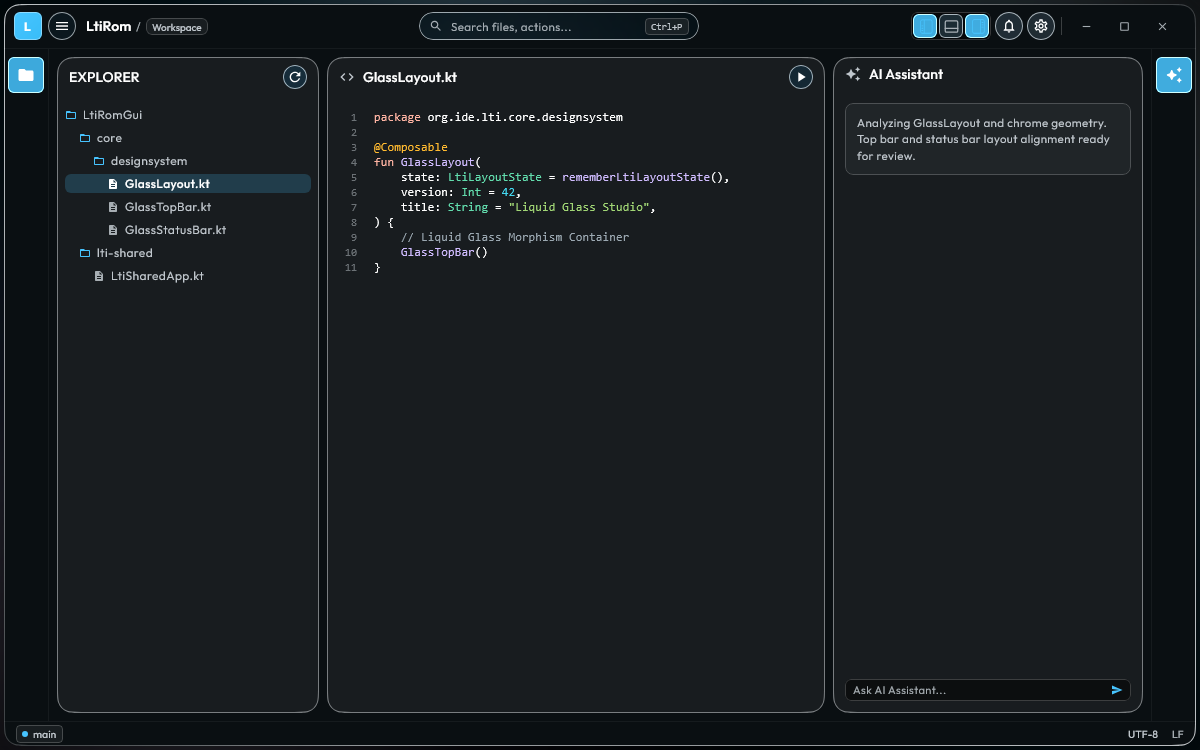
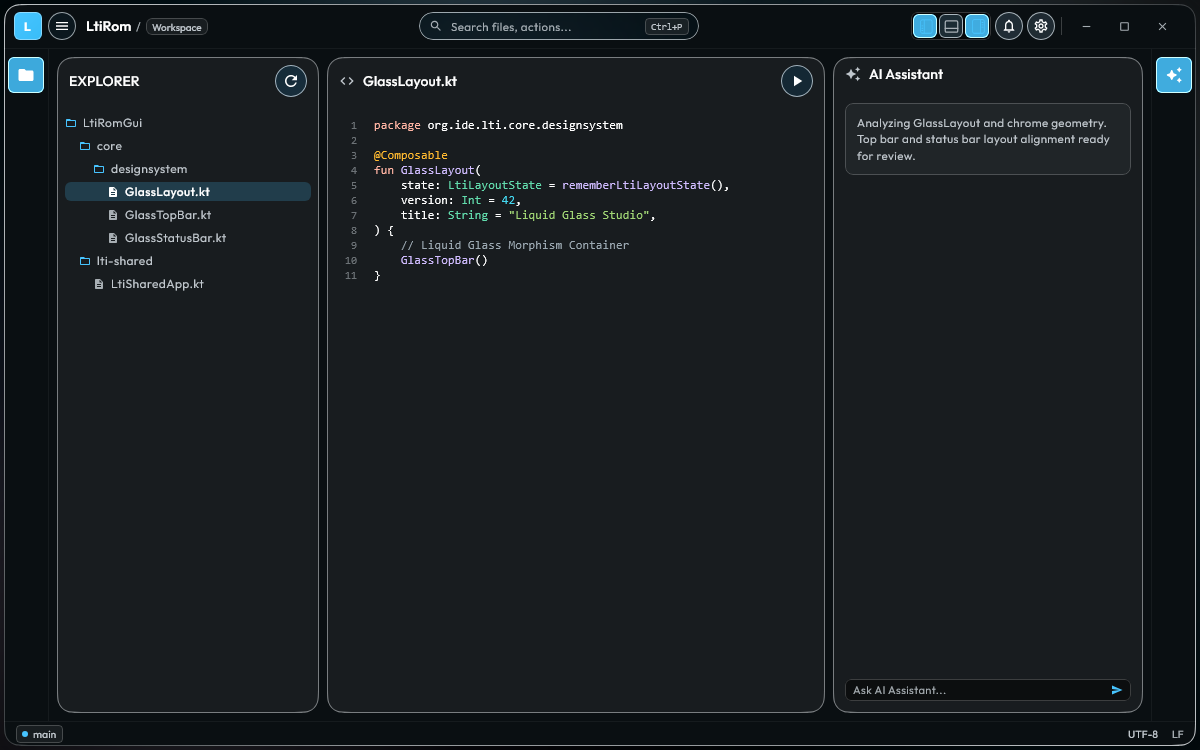
Add visible keyboard focus ring and enlarge panel header action touch target
GlassButton now tracks isFocused via onFocusChanged and renders a
StrokeWidth.Focused ring in glassColors.focusRing, replacing the hairline
border on focus (fixes WCAG 2.2 Focus Visible gap - the token existed but
was never wired to a real component). GlassPanelHeaderAction grows from the
24dp PanelHeaderAction token to a new 32dp PanelHeaderActionTouchTarget,
with a matching 18dp icon glyph to stay proportionate (same pattern as the
earlier SidePanelRailButtonSize fix). GlassMessageBubble's inline copy
button intentionally stays on the smaller 24dp token - different context.

Implemented via agy delegate, independently reviewed: real diff against
brief scope, forced compile/detekt/guardrails + test suite, and two
independent fresh-daemon screenshot regenerations confirmed byte-identical
before committing.

Claude-Session: https://claude.ai/code/session_0159mNcRLJay2RPBEyxhqFt6

diff --git a/core/designsystem/src/desktopTest/kotlin/org/ide/lti/core/designsystem/screenshot/GlassFocusScreenshotTest.kt b/core/designsystem/src/desktopTest/kotlin/org/ide/lti/core/designsystem/screenshot/GlassFocusScreenshotTest.kt
@@ -1,0 +1,114 @@
+/*
+ * Copyright 2025 Mifos Initiative
+ *
+ * This Source Code Form is subject to the terms of the Mozilla Public
+ * License, v. 2.0. If a copy of the MPL was not distributed with this
+ * file, You can obtain one at https://mozilla.org/MPL/2.0/.
+ *
+ * See https://github.com/openMF/kmp-project-template/blob/main/LICENSE
+ */
+package org.ide.lti.core.designsystem.screenshot
+
+import androidx.compose.foundation.background
+import androidx.compose.foundation.layout.Arrangement
+import androidx.compose.foundation.layout.Box
+import androidx.compose.foundation.layout.Column
+import androidx.compose.foundation.layout.Row
+import androidx.compose.foundation.layout.fillMaxSize
+import androidx.compose.foundation.layout.padding
+import androidx.compose.foundation.layout.size
+import androidx.compose.material3.Icon
+import androidx.compose.material3.Text
+import androidx.compose.runtime.LaunchedEffect
+import androidx.compose.runtime.remember
+import androidx.compose.ui.Alignment
+import androidx.compose.ui.Modifier
+import androidx.compose.ui.focus.FocusRequester
+import androidx.compose.ui.focus.focusRequester
+import androidx.compose.ui.test.ExperimentalTestApi
+import androidx.compose.ui.test.captureToImage
+import androidx.compose.ui.test.onRoot
+import androidx.compose.ui.test.runDesktopComposeUiTest
+import org.ide.lti.core.designsystem.component.GlassButton
+import org.ide.lti.core.designsystem.component.GlassButtonVariant
+import org.ide.lti.core.designsystem.component.GlassIconButton
+import org.ide.lti.core.designsystem.component.GlassPrimaryButton
+import org.ide.lti.core.designsystem.component.GlassTextButton
+import org.ide.lti.core.designsystem.icon.AppIcons
+import org.ide.lti.core.designsystem.theme.GlassTheme
+import org.ide.lti.core.designsystem.theme.IconSize
+import org.ide.lti.core.designsystem.theme.LtiTheme
+import org.ide.lti.core.designsystem.theme.Spacing
+import org.junit.Test
+
+/**
+ * Visual screenshot regression tests for visible keyboard focus ring indicator.
+ */
+class GlassFocusScreenshotTest {
+
+    @OptIn(ExperimentalTestApi::class)
+    @Test
+    fun testGlassButtonFocused() = runDesktopComposeUiTest(width = 480, height = 220) {
+        setContent {
+            val focusRequester = remember { FocusRequester() }
+            LaunchedEffect(Unit) {
+                focusRequester.requestFocus()
+            }
+
+            LtiTheme(darkTheme = true) {
+                Box(
+                    modifier = Modifier
+                        .fillMaxSize()
+                        .background(GlassTheme.colors.glassSurface)
+                        .padding(Spacing.Medium),
+                    contentAlignment = Alignment.Center
+                ) {
+                    Column(
+                        verticalArrangement = Arrangement.spacedBy(Spacing.SmallMedium),
+                        horizontalAlignment = Alignment.CenterHorizontally,
+                    ) {
+                        Row(
+                            horizontalArrangement = Arrangement.spacedBy(Spacing.SmallMedium),
+                            verticalAlignment = Alignment.CenterVertically
+                        ) {
+                            GlassButton(
+                                onClick = {},
+                                modifier = Modifier.focusRequester(focusRequester),
+                                variant = GlassButtonVariant.Standard
+                            ) {
+                                Text("Focused Standard")
+                            }
+                            GlassButton(
+                                onClick = {},
+                                variant = GlassButtonVariant.Standard
+                            ) {
+                                Text("Unfocused")
+                            }
+                        }
+                        Row(
+                            horizontalArrangement = Arrangement.spacedBy(Spacing.SmallMedium),
+                            verticalAlignment = Alignment.CenterVertically
+                        ) {
+                            GlassPrimaryButton(onClick = {}) {
+                                Text("Primary Action")
+                            }
+                            GlassIconButton(onClick = {}) {
+                                Icon(
+                                    imageVector = AppIcons.Refresh,
+                                    contentDescription = "Refresh",
+                                    modifier = Modifier.size(IconSize.Medium)
+                                )
+                            }
+                            GlassTextButton(onClick = {}) {
+                                Text("Text Action")
+                            }
+                        }
+                    }
+                }
+            }
+        }
+
+        val image = onRoot().captureToImage()
+        ScreenshotTestHelper.assertMatchesBaseline("glass_button_focused", image)
+    }
+}

diff --git a/core/designsystem/src/commonMain/kotlin/org/ide/lti/core/designsystem/component/GlassButton.kt b/core/designsystem/src/commonMain/kotlin/org/ide/lti/core/designsystem/component/GlassButton.kt
@@ -10,6 +10,8 @@
 package org.ide.lti.core.designsystem.component
 
 import androidx.compose.animation.animateColorAsState
+import androidx.compose.animation.core.animateDpAsState
+import androidx.compose.animation.core.snap
 import androidx.compose.animation.core.tween
 import androidx.compose.foundation.LocalIndication
 import androidx.compose.foundation.border
@@ -34,6 +36,7 @@ import androidx.compose.runtime.setValue
 import androidx.compose.ui.Alignment
 import androidx.compose.ui.ExperimentalComposeUiApi
 import androidx.compose.ui.Modifier
+import androidx.compose.ui.focus.onFocusChanged
 import androidx.compose.ui.graphics.BlendMode
 import androidx.compose.ui.graphics.Color
 import androidx.compose.ui.graphics.Shape
@@ -136,6 +139,7 @@ fun GlassButton(
     val effectsEnabled = GlassTheme.effectsEnabled
     val actualBackdrop = backdrop ?: GlassTheme.backdrop
     var isHovered by remember { mutableStateOf(false) }
+    var isFocused by remember { mutableStateOf(false) }
 
     val animationScope = rememberCoroutineScope()
     val interactiveHighlight = if (interactive) {
@@ -150,13 +154,21 @@ fun GlassButton(
     val finalContentColor = if (enabled) contentColor else glassColors.onGlassMuted
     val baseBorderColor = resolveButtonBorderColor(variant, glassColors)
 
+    val targetSurfaceColor = resolveHoverSurfaceColor(isHovered, variant, baseSurfaceColor, glassColors)
+    val targetBorderColor = resolveTargetBorderColor(isFocused, isHovered, baseBorderColor, glassColors)
+    val targetBorderWidth = resolveTargetBorderWidth(isFocused)
+
     val surfaceColor by animateColorAsState(
-        targetValue = resolveHoverSurfaceColor(isHovered, variant, baseSurfaceColor, glassColors),
-        animationSpec = tween(MotionDuration.Fast)
+        targetValue = targetSurfaceColor,
+        animationSpec = resolveButtonAnimationSpec(GlassTheme.reducedMotion)
     )
     val borderColor by animateColorAsState(
-        targetValue = resolveHoverBorderColor(isHovered, baseBorderColor, glassColors),
-        animationSpec = tween(MotionDuration.Fast)
+        targetValue = targetBorderColor,
+        animationSpec = resolveButtonAnimationSpec(GlassTheme.reducedMotion)
+    )
+    val borderWidth by animateDpAsState(
+        targetValue = targetBorderWidth,
+        animationSpec = resolveButtonAnimationSpec(GlassTheme.reducedMotion)
     )
 
     Row(
@@ -190,13 +202,14 @@ fun GlassButton(
             )
             .then(
                 if (borderColor != Color.Transparent) {
-                    Modifier.border(width = StrokeWidth.Hairline, color = borderColor, shape = shape)
+                    Modifier.border(width = borderWidth, color = borderColor, shape = shape)
                 } else {
                     Modifier
                 }
             )
             .onPointerEvent(PointerEventType.Enter) { isHovered = true }
             .onPointerEvent(PointerEventType.Exit) { isHovered = false }
+            .onFocusChanged { isFocused = it.isFocused }
             .clickable(
                 enabled = enabled,
                 interactionSource = null,
@@ -224,6 +237,25 @@ fun GlassButton(
         }
     }
 }
+
+private fun resolveTargetBorderColor(
+    isFocused: Boolean,
+    isHovered: Boolean,
+    baseBorderColor: Color,
+    glassColors: org.ide.lti.core.designsystem.theme.GlassColorScheme,
+): Color = if (isFocused) {
+    glassColors.focusRing
+} else {
+    resolveHoverBorderColor(isHovered, baseBorderColor, glassColors)
+}
+
+private fun resolveTargetBorderWidth(isFocused: Boolean): Dp =
+    if (isFocused) StrokeWidth.Focused else StrokeWidth.Hairline
+
+private fun <T> resolveButtonAnimationSpec(
+    reducedMotion: Boolean
+): androidx.compose.animation.core.AnimationSpec<T> =
+    if (reducedMotion) snap() else tween(MotionDuration.Fast)
 
 private fun resolveButtonColors(
     variant: GlassButtonVariant,

diff --git a/core/designsystem/src/commonMain/kotlin/org/ide/lti/core/designsystem/theme/Dimens.kt b/core/designsystem/src/commonMain/kotlin/org/ide/lti/core/designsystem/theme/Dimens.kt
@@ -71,6 +71,7 @@ object IconSize {
     val Segmented: Dp = 15.dp
     val Medium: Dp = 16.dp
     val SidePanelRail: Dp = 18.dp
+    val PanelHeaderAction: Dp = 18.dp
     val Large: Dp = 24.dp
     val ExtraLarge: Dp = 28.dp
     val ActionCard: Dp = 32.dp
@@ -111,6 +112,7 @@ object ComponentSize {
     val WindowControlWidth: Dp = 36.dp
     val WindowControlHeight: Dp = 28.dp
     val PanelHeaderAction: Dp = 24.dp
+    val PanelHeaderActionTouchTarget: Dp = 32.dp
     val TabBarHeight: Dp = 36.dp
     val TabItemHeight: Dp = 32.dp
     val OtpBoxSize: Dp = 48.dp

diff --git a/core/designsystem/src/commonMain/kotlin/org/ide/lti/core/designsystem/component/GlassPanel.kt b/core/designsystem/src/commonMain/kotlin/org/ide/lti/core/designsystem/component/GlassPanel.kt
@@ -144,13 +144,13 @@ fun GlassPanelHeaderAction(
     GlassIconButton(
         onClick = onClick,
         modifier = modifier,
-        size = ComponentSize.PanelHeaderAction,
+        size = ComponentSize.PanelHeaderActionTouchTarget,
         backdrop = backdrop,
     ) {
         Icon(
             imageVector = icon,
             contentDescription = contentDescription,
-            modifier = Modifier.size(IconSize.Medium),
+            modifier = Modifier.size(IconSize.PanelHeaderAction),
         )
     }
 }

diff --git a/CLAUDE.md b/CLAUDE.md
@@ -114,9 +114,9 @@ All opacity values are centralized in `AlphaTokens` (no raw float literals in UI
 All layout metrics are centralized in `Dimens.kt`:
 - `Spacing`: `None` (0dp), `Hairline` (1dp), `ExtraExtraSmall` (2dp), `ExtraSmall` (4dp), `Five` (5dp), `Compact` (6dp), `Small` (8dp), `MediumSmall` (10dp), `SmallMedium` (12dp), `Fourteen` (14dp), `Medium` (16dp), `Large` (20dp), `ExtraLarge` (24dp), `ExtraExtraLarge` (32dp), `DialogPadding` (24dp), `PanelPadding` (8dp), `TabHorizontal` (20dp).
 - `CornerRadius`: `None` (0dp), `ExtraSmall` (4dp), `Compact` (6dp), `Small` (6dp), `MediumSmall` (8dp), `Medium` (12dp), `ExtraLarge` (28dp), `Pill` (50dp), `Card` (16dp), `Dialog` (16dp), `Panel` (12dp).
-- `ComponentSize`: `TopBarHeight` (44dp), `StatusBarHeight` (22dp), `StatusBarHeightAlt` (24dp), `BottomTabsHeight` (64dp), `BottomTabItemHeight` (56dp), `ButtonMinWidth` (64dp), `ButtonMinHeight` (40dp), `IconButtonSize` (40dp), `TopBarButtonSize` (28dp), `LogoBadgeSize` (28dp), `SearchCapsuleHeight` (28dp), `SearchCapsuleMinWidth` (160dp), `SearchCapsuleMaxWidth` (280dp), `SegmentedToggleHeight` (28dp), `SegmentedButtonSize` (24dp), `TopBarDividerHeight` (18dp), `WindowControlWidth` (36dp), `WindowControlHeight` (28dp), `PanelHeaderAction` (24dp), `TabBarHeight` (36dp), `TabItemHeight` (32dp), `OtpBoxSize` (48dp), `ToggleTrackWidth` (64dp), `ToggleTrackHeight` (28dp), `ToggleThumbWidth` (40dp), `ToggleThumbHeight` (24dp), `ToggleDragWidth` (20dp), `SliderTrackHeight` (6dp), `SliderThumbWidth` (40dp), `SliderThumbHeight` (24dp), `DragHandleWidth` (32dp), `DragHandleHeight` (4dp), `ProgressBarHeight` (4dp), `PerformanceMonitorWidth` (220dp), `MinPanelWidth` (180dp), `MaxPanelWidth` (600dp), `MinPanelHeight` (100dp), `MaxPanelHeight` (600dp), `ToggleButtonTopPadding` (48dp), `ToggleButtonEndPadding` (8dp), `ToggleButtonSpacing` (4dp), `DividerWidth` (8dp), `MaxRevealDp` (75dp), `VelocityThreshold` (100dp), `DefaultVelocityThreshold` (10dp), `SetupSidebarWidth` (240dp), `ActionCardHeight` (120dp), `EmptyStateBadgeSize` (56dp), `SpinnerSize` (28dp), `ShortcutHelpWidth` (320dp), `StatusDotSize` (8dp), `ActiveIndicatorWidth` (64dp), `ActiveIndicatorHeight` (32dp).
+- `ComponentSize`: `TopBarHeight` (44dp), `StatusBarHeight` (22dp), `StatusBarHeightAlt` (24dp), `BottomTabsHeight` (64dp), `BottomTabItemHeight` (56dp), `ButtonMinWidth` (64dp), `ButtonMinHeight` (40dp), `IconButtonSize` (40dp), `TopBarButtonSize` (28dp), `SidePanelRailButtonSize` (36dp), `LogoBadgeSize` (28dp), `SearchCapsuleHeight` (28dp), `SearchCapsuleMinWidth` (160dp), `SearchCapsuleMaxWidth` (280dp), `SegmentedToggleHeight` (28dp), `SegmentedButtonSize` (24dp), `TopBarDividerHeight` (18dp), `WindowControlWidth` (36dp), `WindowControlHeight` (28dp), `PanelHeaderAction` (24dp), `PanelHeaderActionTouchTarget` (32dp), `TabBarHeight` (36dp), `TabItemHeight` (32dp), `OtpBoxSize` (48dp), `ToggleTrackWidth` (64dp), `ToggleTrackHeight` (28dp), `ToggleThumbWidth` (40dp), `ToggleThumbHeight` (24dp), `ToggleDragWidth` (20dp), `SliderTrackHeight` (6dp), `SliderThumbWidth` (40dp), `SliderThumbHeight` (24dp), `DragHandleWidth` (32dp), `DragHandleHeight` (4dp), `ProgressBarHeight` (4dp), `PerformanceMonitorWidth` (220dp), `MinPanelWidth` (180dp), `MaxPanelWidth` (600dp), `MinPanelHeight` (100dp), `MaxPanelHeight` (600dp), `ToggleButtonTopPadding` (48dp), `ToggleButtonEndPadding` (8dp), `ToggleButtonSpacing` (4dp), `DividerWidth` (8dp), `MaxRevealDp` (75dp), `VelocityThreshold` (100dp), `DefaultVelocityThreshold` (10dp), `SetupSidebarWidth` (240dp), `ActionCardHeight` (120dp), `EmptyStateBadgeSize` (56dp), `SpinnerSize` (28dp), `ShortcutHelpWidth` (320dp), `StatusDotSize` (8dp), `ActiveIndicatorWidth` (64dp), `ActiveIndicatorHeight` (32dp).
 - `StrokeWidth`: `Hairline` (0.5dp), `Standard` (1dp), `Focused` (2dp), `Active` (3dp).
-- `IconSize`: `Indicator` (6dp), `Small` (12dp), `WindowControl` (13dp), `Search` (14dp), `Segmented` (15dp), `Medium` (16dp), `Large` (24dp), `ExtraLarge` (28dp), `ActionCard` (32dp), `Avatar` (80dp).
+- `IconSize`: `Indicator` (6dp), `Small` (12dp), `WindowControl` (13dp), `Search` (14dp), `Segmented` (15dp), `Medium` (16dp), `SidePanelRail` (18dp), `PanelHeaderAction` (18dp), `Large` (24dp), `ExtraLarge` (28dp), `ActionCard` (32dp), `Avatar` (80dp).
 - `Elevation`: `None` (0dp), `Raised` (4dp), `Panel` (8dp).
 
 ### 4. Motion & Animation Tokens (`Motion.kt`)
